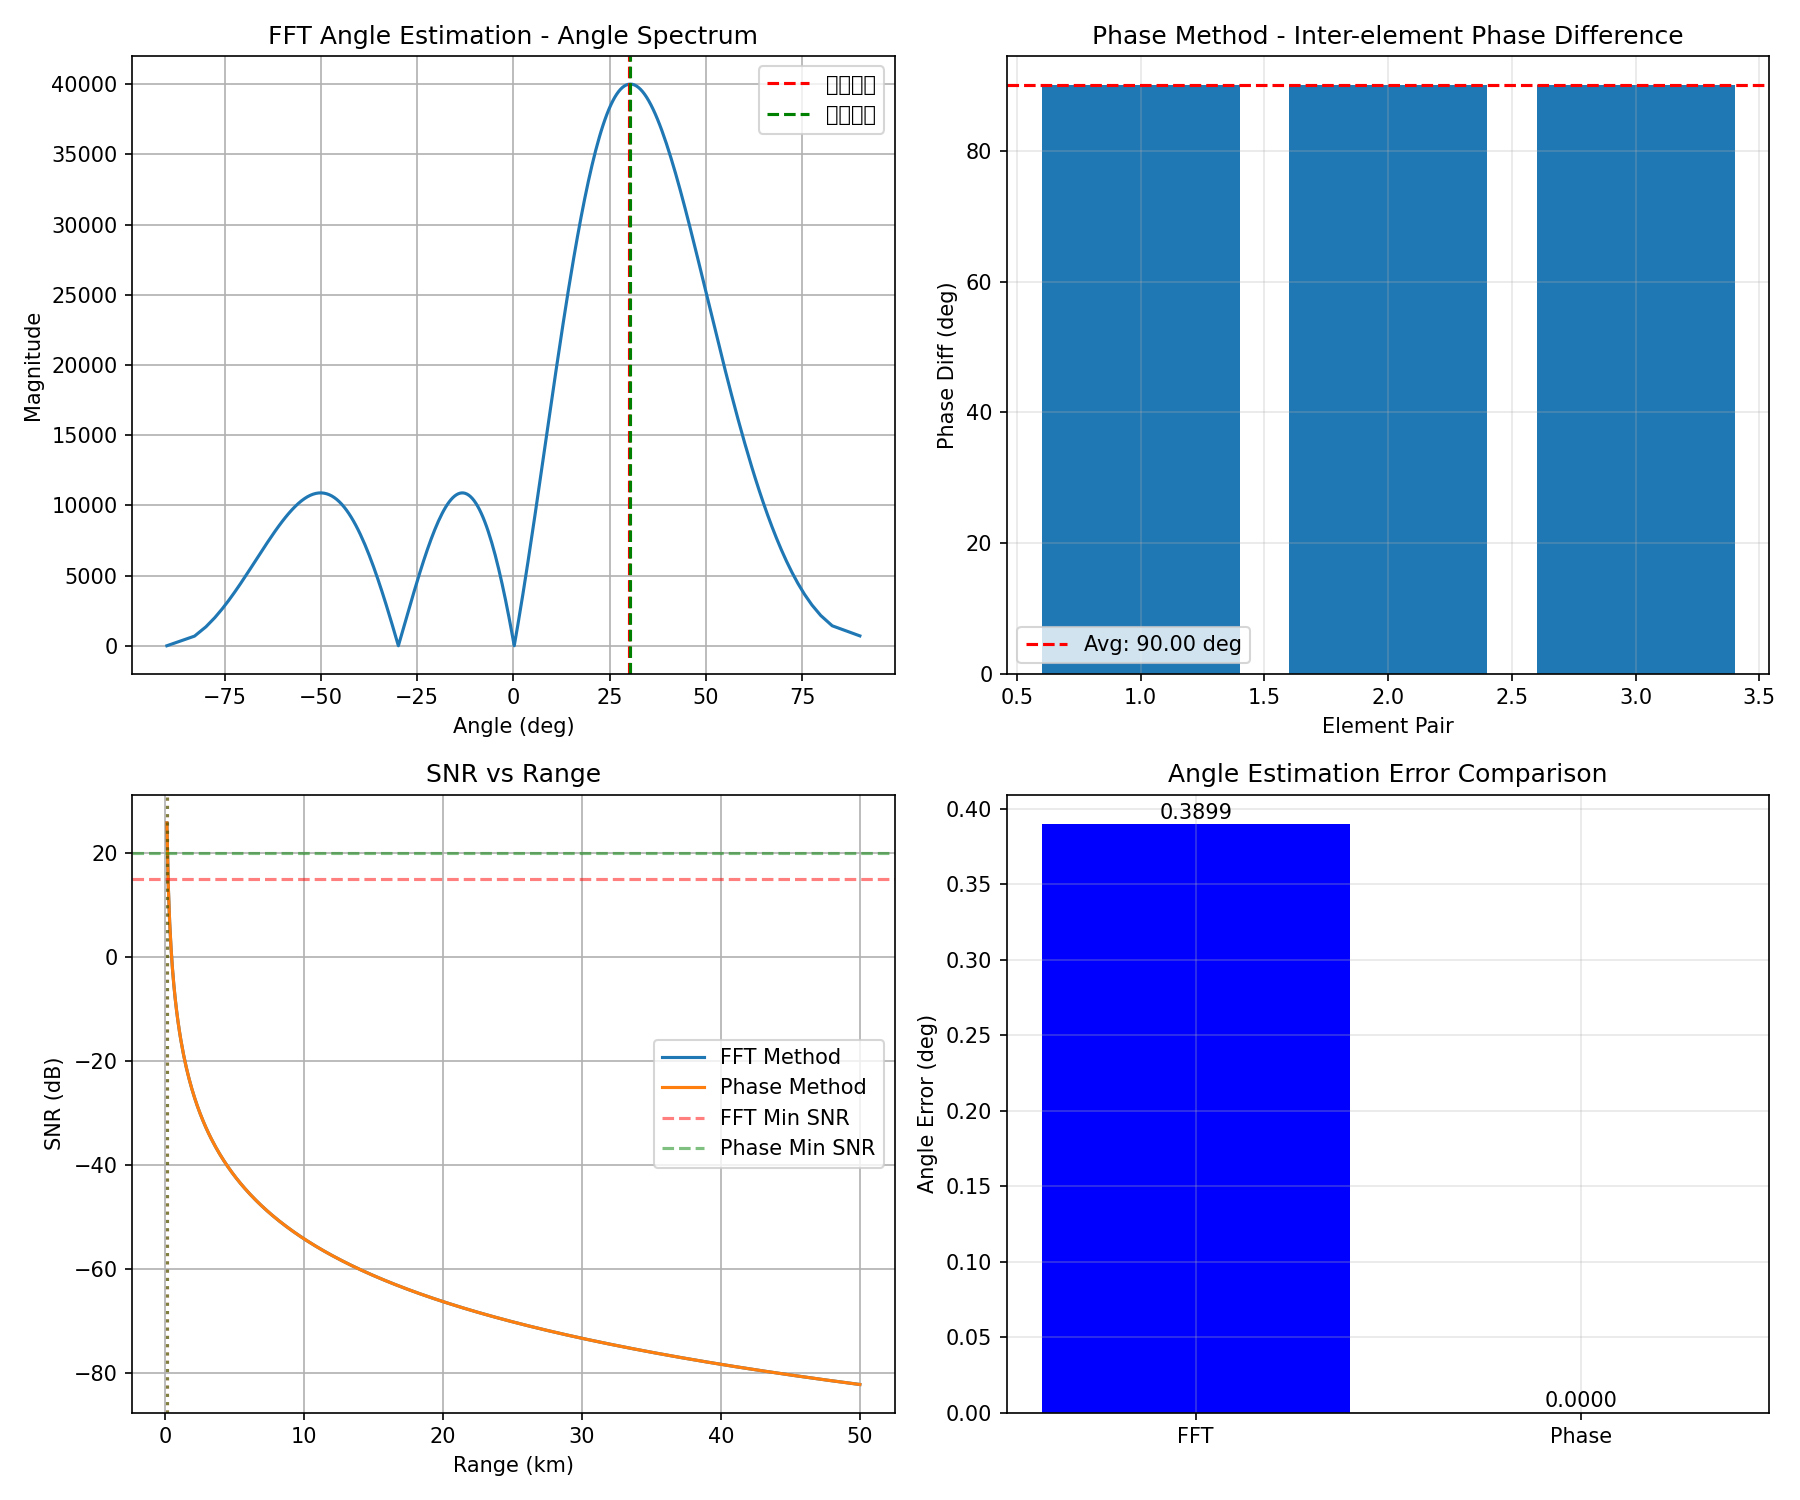
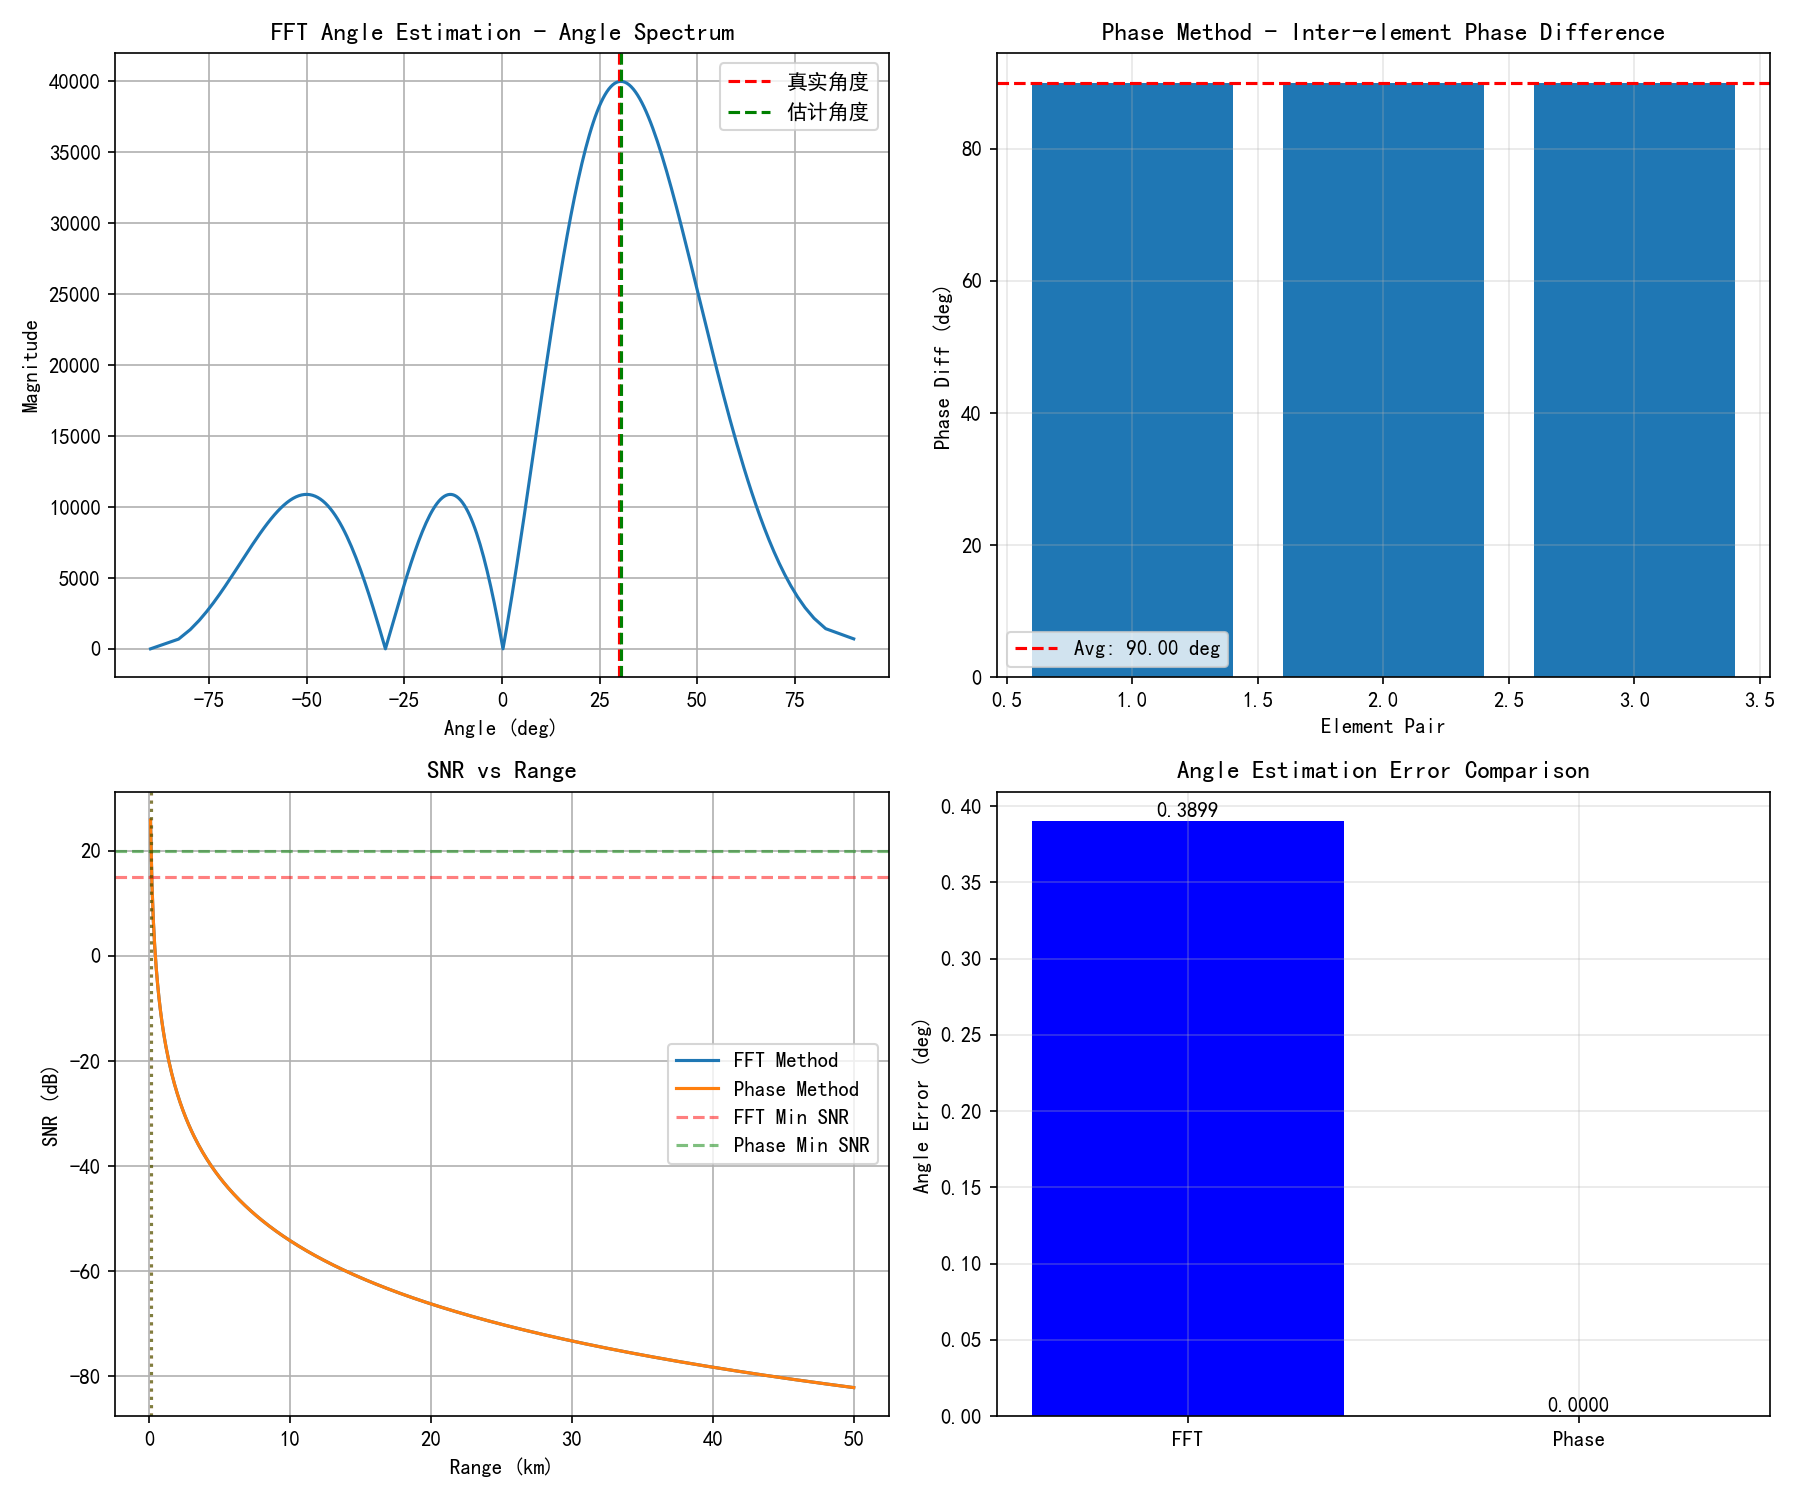
上一版简直是屎，还是不能让AI一次生成太多了，以及复杂的结构感觉也对阅读很不友好，还是那种要总手动修改代码的代码方便得多，很简短

diff --git a/src/radar/挑战任务32OMP.py b/src/radar/挑战任务32OMP.py
@@ -1,0 +1,68 @@
+import numpy as np
+import matplotlib.pyplot as plt
+
+def omp_doa(x_snapshot, dict_matrix, num_targets):
+    """
+    正交匹配追踪算法 (OMP)
+    x_snapshot: 接收到的单次快拍信号 (N x 1)
+    dict_matrix: 过完备字典 (N x M)
+    num_targets: 预期的目标个数 K
+    """
+    N, M = dict_matrix.shape
+    residual = x_snapshot.copy()  # 初始化残差
+    selected_indices = []         # 存放选中的字典列索引
+    
+    for _ in range(num_targets):
+        # 1. 匹配：计算残差与字典每一列的相关性
+        projections = np.abs(dict_matrix.conj().T @ residual)
+        
+        # 2. 识别：找到相关性最大的角度索引
+        best_idx = np.argmax(projections)
+        selected_indices.append(best_idx)
+        
+        # 3. 估计：最小二乘投影，更新信号系数
+        Phi = dict_matrix[:, selected_indices]
+        # 解方程 Phi * s = x_snapshot -> s = pinv(Phi) * x
+        s_hat = np.linalg.pinv(Phi) @ x_snapshot
+        
+        # 4. 更新：计算新的残差
+        residual = x_snapshot - Phi @ s_hat
+        
+    # 构建最终的稀疏谱
+    s_sparse = np.zeros(M)
+    s_sparse[selected_indices] = np.abs(s_hat)
+    return s_sparse
+
+# --- 仿真参数 ---
+N = 4                 # 4个阵元
+d_lambda = 0.5        # 间距
+snr = 20
+angles_true = [-5, 5] # 两个挨得很近的目标
+num_targets = len(angles_true)
+
+# 1. 生成接收信号 (单快拍)
+theta_rad = np.deg2rad(angles_true)
+A = np.exp(-2j * np.pi * d_lambda * np.arange(N).reshape(-1, 1) @ np.sin(theta_rad).reshape(1, -1))
+s = np.array([1.0, 0.8]) * np.exp(1j * 2 * np.pi * np.random.rand(num_targets)) # 目标幅值
+noise = (np.random.randn(N) + 1j * np.random.randn(N)) / np.sqrt(2) * np.sqrt(10**(-snr/10))
+x = A @ s + noise
+
+# 2. 构造过完备字典 (划分1800个细网格)
+search_angles = np.linspace(-90, 90, 1800)
+D = np.exp(-2j * np.pi * d_lambda * np.arange(N).reshape(-1, 1) @ np.sin(np.deg2rad(search_angles)).reshape(1, -1))
+
+# 3. 运行 CS-OMP 算法
+s_sparse = omp_doa(x, D, num_targets)
+
+# 4. 绘图对比
+plt.figure(figsize=(10, 6))
+plt.stem(search_angles, s_sparse / np.max(s_sparse), linefmt='r-', markerfmt='ro', basefmt=' ', label='CS-OMP Result')
+for ang in angles_true:
+    plt.axvline(ang, color='k', linestyle='--', alpha=0.5, label='True Angle' if ang==angles_true[0] else "")
+
+plt.title(f"Super-Resolution DOA via Compressive Sensing (N={N})")
+plt.xlabel("Angle (deg)")
+plt.ylabel("Normalized Amplitude")
+plt.legend()
+plt.grid(True)
+plt.show()

diff --git a/src/radar/挑战任务31.py b/src/radar/挑战任务31.py
@@ -1,0 +1,65 @@
+import numpy as np
+import matplotlib.pyplot as plt
+
+# --- 参数设置 ---
+c = 3e8                 # 光速
+fc = 10e9               # 载频 10GHz
+lam = c / fc            # 波长
+d = lam / 2             # 阵元间距
+N = 4                   # 接收阵元数
+fs = 1e6                # 采样率
+
+# --- 目标设定 ---
+target_dist = 100       # 目标距离 (米)
+target_angle = 20       # 目标角度 (度)
+snr = 20                # 信噪比 (dB)
+
+# --- 1. 产生回波信号 ---
+theta_rad = np.deg2rad(target_angle)
+# 导向矢量 (Steering Vector)
+ant_idx = np.arange(N)
+steering_vector = np.exp(1j * 2 * np.pi * d / lam * ant_idx * np.sin(theta_rad))
+
+# 模拟接收信号 (简化为单频信号 + 高斯白噪声)
+# 实际工程中会经过下变频处理，这里直接模拟复包络
+noise = (np.random.randn(N) + 1j * np.random.randn(N)) / np.sqrt(2)
+noise_pwr = 10**(-snr/10)
+signal = steering_vector + np.sqrt(noise_pwr) * noise
+
+# --- 2. 测角算法 ---
+
+# A. FFT 测角 (空间频谱)
+n_fft = 1024
+spatial_fft = np.fft.fftshift(np.fft.fft(signal, n_fft))
+freq_axis = np.linspace(-0.5, 0.5, n_fft)
+# 将归一化频率映射回角度: sin(theta) = f_spatial * lambda / d
+sin_theta_fft = freq_axis * (lam / d)
+# 裁剪合理范围防止 arcsin 越界
+sin_theta_fft = np.clip(sin_theta_fft, -1.0, 1.0)
+angles_fft = np.rad2deg(np.arcsin(sin_theta_fft))
+fft_result_angle = angles_fft[np.argmax(np.abs(spatial_fft))]
+
+# B. 相位法测角 (干涉法)
+# 利用相邻阵元的相位差平均值
+phases = np.angle(signal)
+delta_phi = np.diff(phases)
+# 处理相位模糊 (wrap around)
+delta_phi = (delta_phi + np.pi) % (2 * np.pi) - np.pi
+mean_delta_phi = np.mean(delta_phi)
+phase_method_angle = np.rad2deg(np.arcsin(mean_delta_phi / (2 * np.pi * d / lam)))
+
+# --- 绘图 ---
+plt.figure(figsize=(10, 5))
+plt.plot(angles_fft, 20 * np.log10(np.abs(spatial_fft) / np.max(np.abs(spatial_fft))))
+plt.axvline(target_angle, color='r', linestyle='--', label=f'True: {target_angle}°')
+plt.axvline(fft_result_angle, color='g', linestyle=':', label=f'FFT: {fft_result_angle:.2f}°')
+plt.title("Spatial FFT Spectrum")
+plt.xlabel("Angle (deg)")
+plt.ylabel("Magnitude (dB)")
+plt.legend()
+plt.grid(True)
+plt.show()
+
+print(f"设定目标角度: {target_angle}°")
+print(f"FFT 测角结果: {fft_result_angle:.2f}°")
+print(f"相位法测角结果: {phase_method_angle:.2f}°")

diff --git a/src/radar/p3-1.py b/src/radar/p3-1.py
@@ -9,6 +9,9 @@
 """
 
 import numpy as np
+import matplotlib
+matplotlib.rcParams['font.sans-serif'] = ['SimHei']          # 使用黑体
+matplotlib.rcParams['axes.unicode_minus'] = False             # 解决负号显示问题
 import matplotlib.pyplot as plt
 
 
@@ -27,7 +30,7 @@ def generate_echo_signal(f0, t, target_angle, num_rx, d, c):
     返回:
         echo_signals: 各阵元的回波信号 (复数基带)
     """
-    wavelength = c / f0
+    wavelength = c / f0 # 波长
 
     # 各阵元的回波信号 (考虑波程差引入的相位差)
     # 注意：相位是相对于第一个阵元的
@@ -57,8 +60,10 @@ def fft_angle_estimation(echo_signals, wavelength, d):
     compressed_signals = np.zeros(num_rx, dtype=complex)
     for n in range(num_rx):
         compressed_signals[n] = np.sum(echo_signals[n, :])
+    # compressed_signals = echo_signals[:, 0] 
 
     # 空间 FFT
+    # 匹配滤波器，用256种假设的角度去匹配当前的数据
     n_fft = 256
     angle_spectrum = np.abs(np.fft.fft(compressed_signals, n_fft))
     angle_spectrum = np.fft.fftshift(angle_spectrum)
@@ -85,6 +90,7 @@ def phase_angle_estimation(echo_signals, wavelength, d):
     compressed_signals = np.zeros(num_rx, dtype=complex)
     for n in range(num_rx):
         compressed_signals[n] = np.sum(echo_signals[n, :])
+    # compressed_signals = echo_signals[:, 0] 
 
     # 计算相邻阵元间的相位差
     phase_diffs = np.zeros(num_rx - 1)
@@ -180,14 +186,14 @@ def main():
     fft_angle, angle_spectrum, sin_theta = fft_angle_estimation(echo_signals, wavelength, d)
 
     print(f"\nFFT 测角结果:")
-    print(f"  估计角度：{np.rad2deg(fft_angle):.2f} 度")
+    print(f"  估计角度：{np.rad2deg(fft_angle):.4f} 度")
     print(f"  角度误差：{np.rad2deg(fft_angle - target_angle):.4f} 度")
 
     # ========== 相位法测角 ==========
     phase_angle, phase_diffs = phase_angle_estimation(echo_signals, wavelength, d)
 
     print(f"\n相位法测角结果:")
-    print(f"  估计角度：{np.rad2deg(phase_angle):.2f} 度")
+    print(f"  估计角度：{np.rad2deg(phase_angle):.4f} 度")
     print(f"  角度误差：{np.rad2deg(phase_angle - target_angle):.4f} 度")
     print(f"  相邻阵元相位差：{np.rad2deg(phase_diffs)}")
 

diff --git a/src/radar/挑战任务32BDF.py b/src/radar/挑战任务32BDF.py
@@ -1,0 +1,44 @@
+import numpy as np
+import matplotlib.pyplot as plt
+
+def dbf_algo(N, d_over_lambda, angles_true, snr, num_samples=1000):
+    # 1. 模拟信号产生 (跟之前一样)
+    theta = np.deg2rad(angles_true)
+    # 导向矢量矩阵
+    A = np.exp(-2j * np.pi * d_over_lambda * np.arange(N).reshape(-1, 1) @ np.sin(theta).reshape(1, -1))
+    s = np.exp(1j * 2 * np.pi * np.random.rand(len(angles_true), num_samples))
+    noise = (np.random.randn(N, num_samples) + 1j * np.random.randn(N, num_samples)) / np.sqrt(2)
+    x = A @ s + np.sqrt(10**(-snr/10)) * noise
+
+    # 2. DBF 核心：扫描所有角度，看哪个方向功率最大
+    search_angles = np.linspace(-90, 90, 1800)
+    P_dbf = []
+    
+    for a in search_angles:
+        rad = np.deg2rad(a)
+        # 构造对应角度 a 的“补偿矢量” (Weight Vector)
+        w = np.exp(-2j * np.pi * d_over_lambda * np.arange(N) * np.sin(rad))
+        
+        # 核心操作：加权求和 (Beamforming)
+        # 将 N 个阵元的信号按 w 方向对齐并相加
+        y = w.conj().T @ x 
+        
+        # 计算输出能量
+        power = np.mean(np.abs(y)**2)
+        P_dbf.append(power)
+    
+    return search_angles, 10 * np.log10(P_dbf / np.max(P_dbf))
+
+# 仿真运行
+angles_true = [-20, 15]
+angles, spectrum_dbf = dbf_algo(N=4, d_over_lambda=0.5, angles_true=angles_true, snr=20)
+
+plt.figure(figsize=(10, 5))
+plt.plot(angles, spectrum_dbf, label='DBF (N=4)', color='blue')
+plt.axvline(-20, color='r', linestyle='--', alpha=0.5)
+plt.axvline(15, color='r', linestyle='--', alpha=0.5)
+plt.title("Digital Beamforming (DBF) Power Spectrum")
+plt.xlabel("Angle (deg)")
+plt.ylabel("Normalized Power (dB)")
+plt.grid(True)
+plt.show()

diff --git a/src/radar/挑战任务32MUSIC.py b/src/radar/挑战任务32MUSIC.py
@@ -1,0 +1,45 @@
+import numpy as np
+import matplotlib.pyplot as plt
+
+def music_algo(N, d_over_lambda, angles_true, snr, num_samples=1000):
+    # 信号生成
+    theta = np.deg2rad(angles_true)
+    A = np.exp(-2j * np.pi * d_over_lambda * np.arange(N).reshape(-1, 1) @ np.sin(theta).reshape(1, -1))
+    
+    # 仿真信号 + 噪声
+    s = np.exp(1j * 2 * np.pi * np.random.rand(len(angles_true), num_samples))
+    x = A @ s
+    noise = (np.random.randn(N, num_samples) + 1j * np.random.randn(N, num_samples)) / np.sqrt(2)
+    noise_power = 10**(-snr/10)
+    x += np.sqrt(noise_power) * noise
+
+    # 计算协方差矩阵
+    R = (x @ x.conj().T) / num_samples
+    eigvals, eigvecs = np.linalg.eigh(R)
+    En = eigvecs[:, :-len(angles_true)] # 噪声子空间
+
+    # 空间谱搜索
+    search_angles = np.linspace(-90, 90, 1800)
+    P_music = []
+    for a in search_angles:
+        rad = np.deg2rad(a)
+        steer = np.exp(-2j * np.pi * d_over_lambda * np.arange(N) * np.sin(rad))
+        p = 1 / np.abs(steer.conj() @ En @ En.conj().T @ steer)
+        P_music.append(p)
+    
+    return search_angles, 10 * np.log10(P_music / np.max(P_music))
+
+# 基础仿真
+angles_true = [10, 15]
+angles, spectrum = music_algo(N=4, d_over_lambda=0.5, angles_true=angles_true, snr=20)
+
+plt.figure(figsize=(10, 5))
+plt.plot(angles, spectrum, label='N=4, d=0.5λ')
+plt.axvline(angles_true[0], color='r', linestyle='--', alpha=0.5)
+plt.axvline(angles_true[1], color='r', linestyle='--', alpha=0.5)
+plt.title("MUSIC DOA Estimation (1Tx 4Rx)")
+plt.xlabel("Angle (deg)")
+plt.ylabel("Normalized Spectrum (dB)")
+plt.grid(True)
+plt.legend()
+plt.show()
